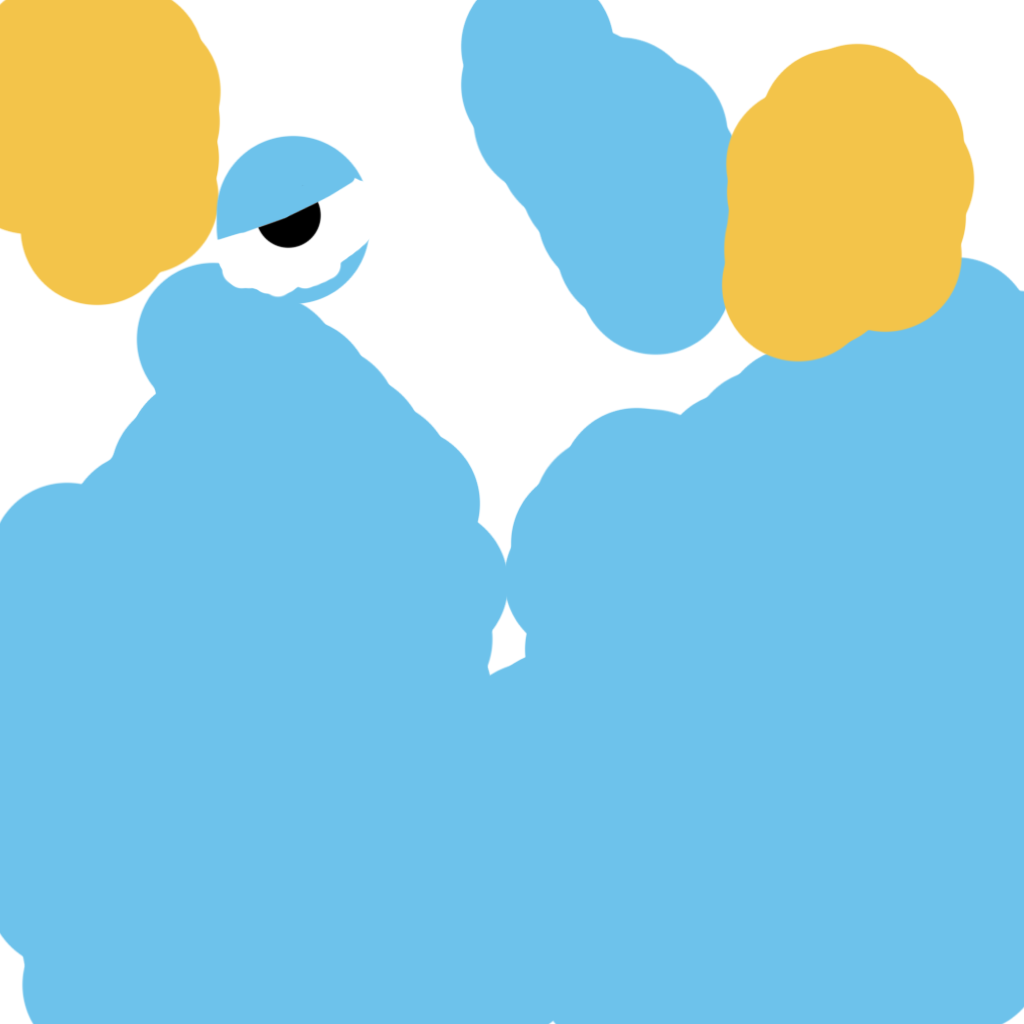
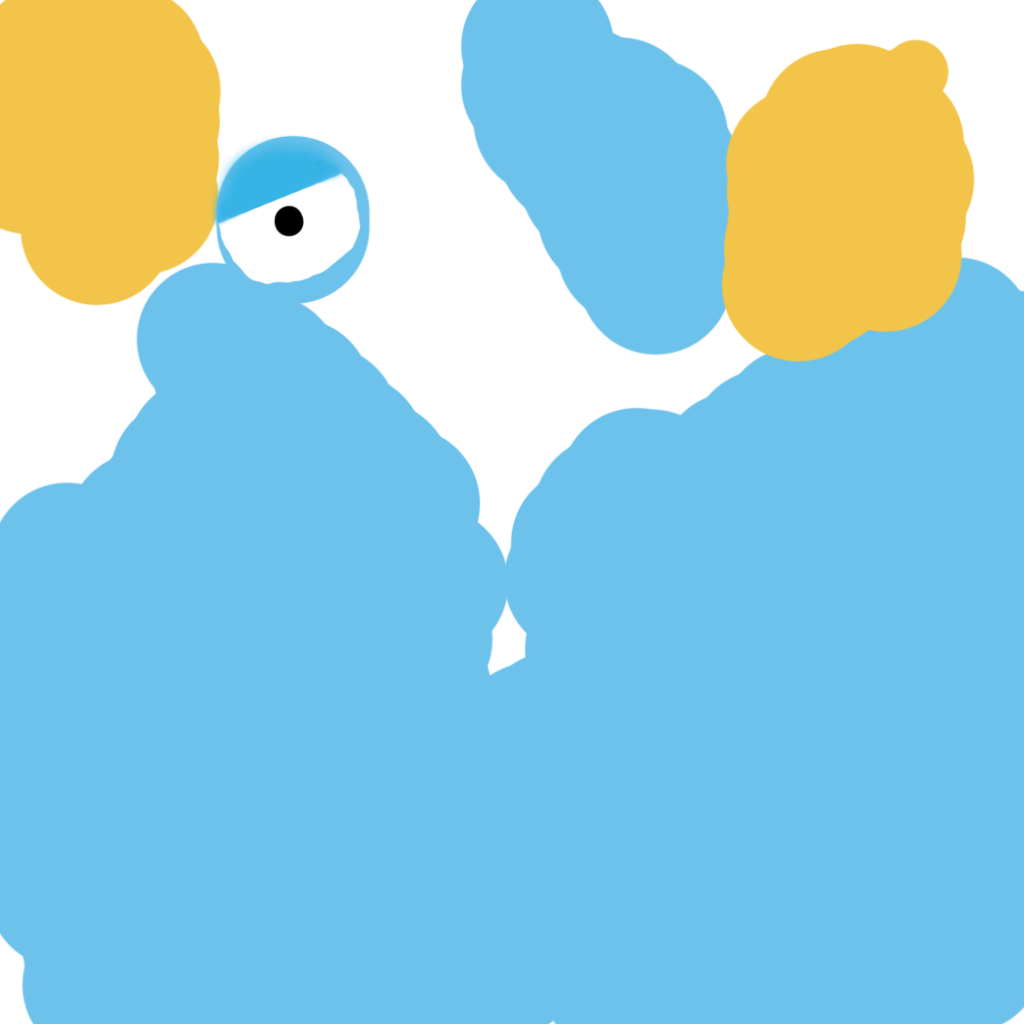
とりあえずShaderがあたるように修正

Changed region(s): [[0.1875, 0.125, 0.375, 0.3125], [0.875, 0.0312, 0.9375, 0.0938]]

diff --git a/demo1/src/Model.ts b/demo1/src/Model.ts
@@ -9,6 +9,8 @@ export default class Model extends THREE.Object3D {
   private _mesh:THREE.SkinnedMesh;
   /** Mixer */
   private _mixer:THREE.AnimationMixer;
+  /** Mixer2 */
+  private _mixer2:THREE.AnimationMixer;
   /** count */
   private _clock:THREE.Clock;
   /** 縁線Mesh */
@@ -39,7 +41,7 @@ export default class Model extends THREE.Object3D {
     this.add(this._mesh);
 
     // エッジ
-    this._edgeMesh = new THREE.Mesh(geometry, this._createEdgeMaterial());
+    this._edgeMesh = new THREE.SkinnedMesh(geometry, this._createEdgeMaterial());
     this.add(this._edgeMesh);
 
     // ボーン
@@ -54,6 +56,12 @@ export default class Model extends THREE.Object3D {
     this._action.idle = this._mixer.clipAction(geometry.animations[0]);
     this._action.idle.setEffectiveWeight( 1 );
 		this._action.idle.play();
+
+    // ミキサー2
+    this._mixer2 = new THREE.AnimationMixer(this._edgeMesh);
+    this._action.idle2 = this._mixer.clipAction(geometry.animations[0]);
+    this._action.idle2.setEffectiveWeight( 1 );
+		this._action.idle2.play();
   }
 
   /**
@@ -97,7 +105,8 @@ export default class Model extends THREE.Object3D {
           value: new THREE.Vector4(0, 0, 0, 1)
         },
       },
-      side: THREE.BackSide
+      side: THREE.BackSide,
+      skinning: true
     });
   }
 
@@ -108,51 +117,82 @@ export default class Model extends THREE.Object3D {
   private _createFaceMaterial(material:THREE.MeshBasicMaterial):THREE.ShaderMaterial {
     return new THREE.ShaderMaterial({
       vertexShader: `
-        varying vec3 vNormal;
         varying vec2 vUv;
-
-        void main(void) {
-          vec3 pos = position;
-          vNormal = normal;
+        // #ifdef USE_SKINNING
+          // varying vec3 vViewPosition;
+          varying vec3 vNormal;
+          uniform mat4 bindMatrix;
+          uniform mat4 bindMatrixInverse;
+          // uniform mat4 boneMatrices[ MAX_BONES ];
+          // mat4 getBoneMatrix( const in float i ) {
+          //   mat4 bone = boneMatrices[ int(i) ];
+          //   return bone;
+          // }
+        // #endif
+        void main() {
           vUv = uv;
-          gl_Position = projectionMatrix * modelViewMatrix * vec4(pos, 1.0);
+          // #ifdef USE_SKINNING
+          //   mat4 boneMatX = getBoneMatrix( skinIndex.x );
+          //   mat4 boneMatY = getBoneMatrix( skinIndex.y );
+          //   mat4 boneMatZ = getBoneMatrix( skinIndex.z );
+          //   mat4 boneMatW = getBoneMatrix( skinIndex.w );
+          //   mat4 skinMatrix = mat4( 0.0 );
+          //   skinMatrix += skinWeight.x * boneMatX;
+          //   skinMatrix += skinWeight.y * boneMatY;
+          //   skinMatrix += skinWeight.z * boneMatZ;
+          //   skinMatrix += skinWeight.w * boneMatW;
+          //   skinMatrix  = bindMatrixInverse * skinMatrix * bindMatrix;
+          //   vec4 skinnedNormal = skinMatrix * vec4( normal, 0.0 );
+          //   vec3 objectNormal = skinnedNormal.xyz;
+          //   vec3 transformedNormal = normalMatrix * objectNormal;
+          //   vNormal = normalize( transformedNormal );
+          //   vec4 skinVertex = bindMatrix * vec4( position, 1.0 );
+          //   vec4 skinned = vec4( 0.0 );
+          //   skinned += boneMatX * skinVertex * skinWeight.x;
+          //   skinned += boneMatY * skinVertex * skinWeight.y;
+          //   skinned += boneMatZ * skinVertex * skinWeight.z;
+          //   skinned += boneMatW * skinVertex * skinWeight.w;
+          //   skinned  = bindMatrixInverse * skinned;
+          //   vec4 mvPosition = modelViewMatrix * skinned;
+          // #else
+            vec4 mvPosition = modelViewMatrix * vec4( position, 1.0 );
+          // #endif
+          gl_Position = projectionMatrix * mvPosition;
         }
       `,
       fragmentShader: `
-        uniform vec3 lightDirection;
-        uniform sampler2D map;
-        uniform int mapEnable;
-        uniform sampler2D toonTexture;
-        uniform vec4 meshColor;
-
-        varying vec3 vNormal;
+        uniform vec2 resolution;
+        uniform float time;
         varying vec2 vUv;
-
-        void main(void) {
-          vec4 tColor;
-          tColor = texture2D(map, vUv);
-          float diffuse = clamp(dot(vNormal, normalize(lightDirection)), 0.0, 1.0);
-          vec4 smpColor = texture2D(toonTexture, vec2(diffuse, 0.0));
-          gl_FragColor = meshColor * smpColor * tColor;
+        void main() {
+          vec2 p = -1.0 + 2.0 * vUv;
+          float a = time*40.0;
+          float d,e,f,g=1.0/40.0,h,i,r,q;
+          e=400.0*(p.x*0.5+0.5);
+          f=400.0*(p.y*0.5+0.5);
+          i=200.0+sin(e*g+a/150.0)*20.0;
+          d=200.0+cos(f*g/2.0)*18.0+cos(e*g)*7.0;
+          r=sqrt(pow(i-e,2.0)+pow(d-f,2.0));
+          q=f/r;
+          e=(r*cos(q))-a/2.0;f=(r*sin(q))-a/2.0;
+          d=sin(e*g)*176.0+sin(e*g)*164.0+r;
+          h=((f+d)+a/2.0)*g;
+          i=cos(h+r*p.x/1.3)*(e+e+a)+cos(q*g*6.0)*(r+h/3.0);
+          h=sin(f*g)*144.0-sin(e*g)*212.0*p.x;
+          h=(h+(f-e)*q+sin(r-(a+h)/7.0)*10.0+i/4.0)*g;
+          i+=cos(h*2.3*sin(a/350.0-q))*184.0*sin(q-(r*4.3+a/12.0)*g)+tan(r*g+h)*184.0*cos(r*g+h);
+          i=mod(i/5.6,256.0)/64.0;
+          if(i<0.0) i+=4.0;
+          if(i>=2.0) i=4.0-i;
+          d=r/350.0;
+          d+=sin(d*d*8.0)*0.52;
+          f=(sin(a*g)+1.0)/2.0;
+          gl_FragColor=vec4(vec3(f*i/1.6,i/2.0+d/13.0,i)*d*p.x+vec3(i/1.3+d/8.0,i/2.0+d/18.0,i)*d*(1.0-p.x),1.0);
         }
       `,
       uniforms: {
-        lightDirection: {
-          type: 'v3',
-          value: SpotLight.getInstance().position
-        },
-        toonTexture: {
-          type: 't',
-          value: THREE.ImageUtils.loadTexture('assets/texture/toon.png')
-        },
-        map: {
-          type: 't',
-          value: THREE.ImageUtils.loadTexture('assets/json/zensuke.png')
-        },
-        meshColor: {
-          type: 'v4',
-          value: new THREE.Vector4(material.color.r, material.color.g, material.color.b, 1)
-        }
+        time: { type: "f", value: 1.0 },
+        resolution: { type: "v2", value: new THREE.Vector2() }
       },
       skinning: true
     });
